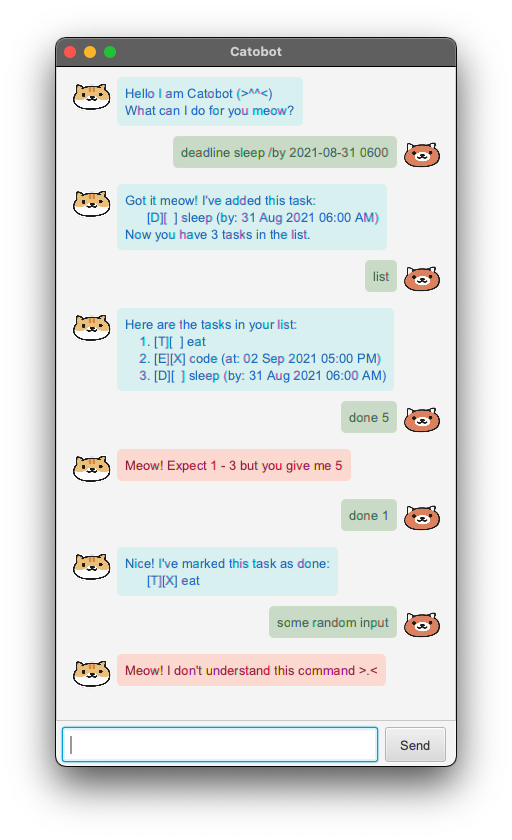
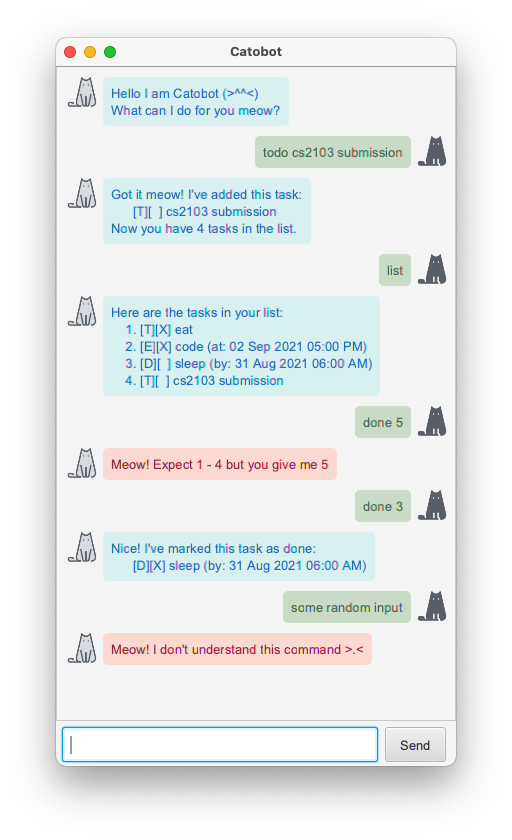
Credit profile photos.

Changed region(s): [[0.0625, 0.031, 0.9062, 0.9595]]

diff --git a/src/main/java/catobot/MainWindow.java b/src/main/java/catobot/MainWindow.java
@@ -23,9 +23,9 @@ public class MainWindow extends AnchorPane {
     private Catobot catobot;
 
     private final Image userImage = new Image(
-            Objects.requireNonNull(this.getClass().getResourceAsStream("/image/kuma-2.png")));
+            Objects.requireNonNull(this.getClass().getResourceAsStream("/image/user.png")));
     private final Image dukeImage = new Image(
-            Objects.requireNonNull(this.getClass().getResourceAsStream("/image/neko-2.png")));
+            Objects.requireNonNull(this.getClass().getResourceAsStream("/image/bot.png")));
 
     /**
      * Initializes the displaying window.

diff --git a/docs/README.md b/docs/README.md
@@ -34,9 +34,9 @@ Expected outcome:
 
 ```
 Here are Ihe lasks in your list:
-  1. [T][✓] eat 
-  2. [E][✗] code (at 02 Sep 2021 05:00 PM)
-  3. [D][✗] sleep (by: 01 Aug 2021 06:00 AM)
+  1. [T][X] eat 
+  2. [E][ ] code (at 02 Sep 2021 05:00 PM)
+  3. [D][ ] sleep (by: 01 Aug 2021 06:00 AM)
 ```
 
 ### `deadline` - Add deadline
@@ -50,7 +50,7 @@ Expected outcome:
 
 ```
 Got it meow! I've added this task:
-    [D][✗] study (by: 01 May 2024 11:59 PM)
+    [D][ ] study (by: 01 May 2024 11:59 PM)
 Now you have 5 tasks in the list.
 ```
 
@@ -66,7 +66,7 @@ Expected outcome:
 
 ```
 Got it meow! I've added this task:
-    [E][✗] study (at: 01 May 2024 11:59 PM)
+    [E][ ] study (at: 01 May 2024 11:59 PM)
 Now you have 5 tasks in the list.
 ```
 
@@ -81,7 +81,7 @@ Expected outcome:
 
 ```
 Got it meow! I've added this task:
-    [T][✗] sleep
+    [T][ ] sleep
 Now you have 5 tasks in the list.
 ```
 
@@ -97,7 +97,7 @@ Expected outcome:
 
 ```
 Noted. I've removed this task:
-    [T][✓] eat 
+    [T][X] eat 
 Now you have 4 tasks in the list.
 ```
 
@@ -113,7 +113,7 @@ Expected outcome:
 
 ```
 Noted. I've marked this task as done:
-    [D][✓] sleep (by: 01 Aug 2021 06:00 AM)
+    [D][X] sleep (by: 01 Aug 2021 06:00 AM)
 ```
 
 ### `sort` - Sort a type of tasks
@@ -130,9 +130,9 @@ Expected outcome:
 
 ```
 Here are the sorted deadline in your list:
-    1. [D][x] graduation (by: 01 May 2020 11:59 PM) 
-    2. [D][x] sleep (by: 01 Oct 2021 06:00 AM) 
-    3. [D][✓] hello (by: 31 Aug 2021 06:00 AM) 
+    1. [D][ ] graduation (by: 01 May 2020 11:59 PM) 
+    2. [D][ ] sleep (by: 01 Oct 2021 06:00 AM) 
+    3. [D][X] say hello (by: 31 Aug 2021 06:00 AM) 
 ```
 
 ### `find` - Find a task
@@ -147,18 +147,42 @@ Expected outcome:
 
 ```
 Here are the sorted deadline in your list:
-    1. [T][x] no life
-    2. [E][x] have fun in life (by: 01 Oct 2023 06:00 AM) 
-    3. [D][✓] lifestyle (by: 31 Aug 2021 06:00 AM) 
+    1. [T][ ] no life
+    2. [E][ ] have fun in life (by: 01 Oct 2023 06:00 AM) 
+    3. [D][X] lifestyle (by: 31 Aug 2021 06:00 AM) 
 ```
 
 ### `bye` - Exit the app
 
 Exit the app. The list data will automatically be saved.
 
-Format and example of usage: `exit`
+Format and example of usage: `bye`
 
 Expected outcome:
 ```
 Bye meow! I will always wait here meow(>^^<)
 ```
+
+## Command Summary
+| Command                                        | Example                              |
+|------------------------------------------------|--------------------------------------|
+| `list`                                         | `list`                               |
+| `deadline <description> /by <yyyy-MM-dd HHmm>` | `deadline study /by 2024-05-01 2359` |
+| `event <description> /at <yyyy-MM-dd HHmm>`    | `event study /at 2024-05-01 2359`    |
+| `todo <description>`                           | `todo sleep`                         |
+| `delete <index>`                               | `delete 1`                           |
+| `done <index>`                                 | `done 3`                             |
+| `sort <task_type>`                             | `sort deadline`                      |
+| `find <keyword>`                               | `find life`                          |
+| `bye`                                          | `bye`                                |
+
+## Credit
+Icons used are [free for non-commercial use](https://icons8.com/license). They are listed below:
+
+Bot profile:
+<a target="_blank" href="https://icons8.com/icon/121197/cat">Cat</a> 
+icon by <a target="_blank" href="https://icons8.com">Icons8</a>
+
+User profile:
+<a target="_blank" href="https://icons8.com/icon/121351/cat">Cat</a> 
+icon by <a target="_blank" href="https://icons8.com">Icons8</a>

diff --git a/README.md b/README.md
@@ -1,6 +1,10 @@
 # Catobot
 ![example workflow](https://github.com/ziqing26/ip/actions/workflows/main.yml/badge.svg)
 
+Feel not organized? Perfect task management bot for cat lover:)
+
+![](docs/Ui.png)
+
 This is a java project named Catobot. Given below are instructions on how to use it.
 ```
                       /^--^\     /^--^\     /^--^\
@@ -14,15 +18,30 @@ CATOBOT             |        | |        | |        |
 | | | | | | | | | | | | \/| | | | \/| | | | | |\/ | | | | | | | | | | | |
 |_|_|_|_|_|_|_|_|_|_|_|_|_|_|_|_|_|_|_|_|_|_|_|_|_|_|_|_|_|_|_|_|_|_|_|_|
 ```
+
 ## Setting up in Intellij
 
 Prerequisites: JDK 11, update Intellij to the most recent version.
 
 1. Open Intellij (if you are not in the welcome screen, click `File` > `Close Project` to close the existing project first)
-1. Open the project into Intellij as follows:
+2. Open the project into Intellij as follows:
    1. Click `Open`.
    1. Select the project directory, and click `OK`.
    1. If there are any further prompts, accept the defaults.
-1. Configure the project to use **JDK 11** (not other versions) as explained in [here](https://www.jetbrains.com/help/idea/sdk.html#set-up-jdk).<br>
+3. Configure the project to use **JDK 11** (not other versions) as explained in [here](https://www.jetbrains.com/help/idea/sdk.html#set-up-jdk).<br>
    In the same dialog, set the **Project language level** field to the `SDK default` option.
-3. After that, locate the `src/main/java/catobot/Launcher.java` file, right-click it, and choose `Run Launcher` (if the code editor is showing compile errors, try restarting the IDE). If the setup is correct, you should see a window pop up with a cat saying hi to you.
+4. After that, locate the `src/main/java/catobot/Launcher.java` file, right-click it, and choose `Run Launcher` (if the code editor is showing compile errors, try restarting the IDE). If the setup is correct, you should see a window pop up with a cat saying hi to you.
+
+## Usage
+User guide can be found [here](https://ziqing26.github.io/ip/).
+
+## Credit
+Icons used are [free for non-commercial use](https://icons8.com/license). They are listed below:
+
+Bot profile:
+<a target="_blank" href="https://icons8.com/icon/121197/cat">Cat</a>
+icon by <a target="_blank" href="https://icons8.com">Icons8</a>
+
+User profile:
+<a target="_blank" href="https://icons8.com/icon/121351/cat">Cat</a>
+icon by <a target="_blank" href="https://icons8.com">Icons8</a>
